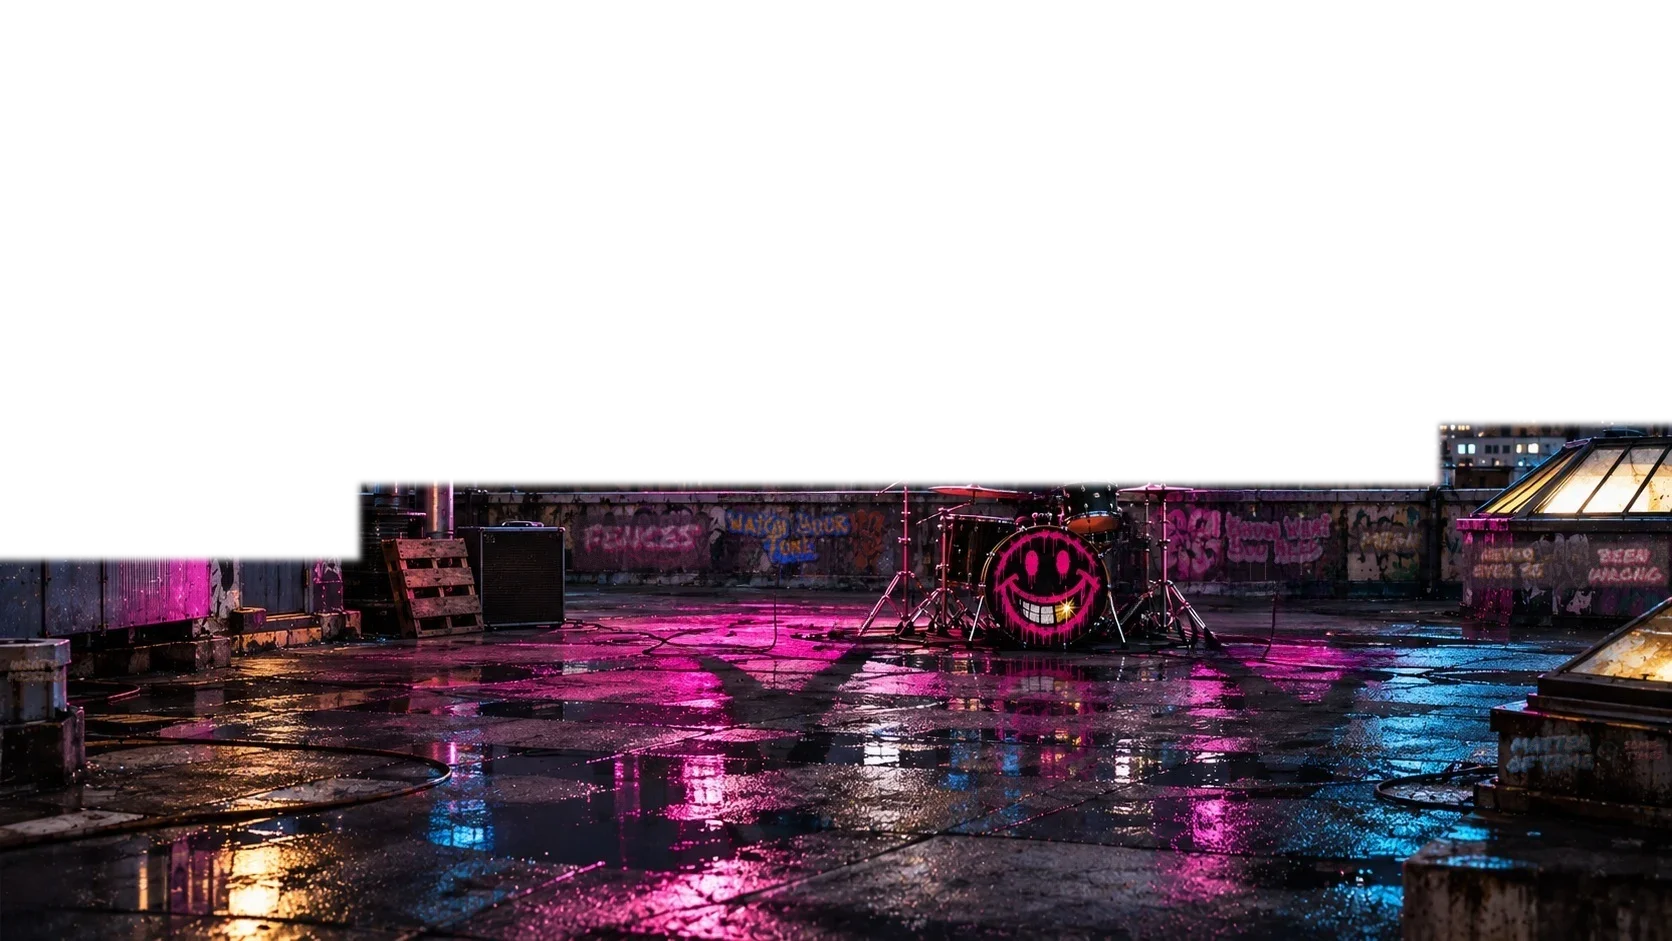
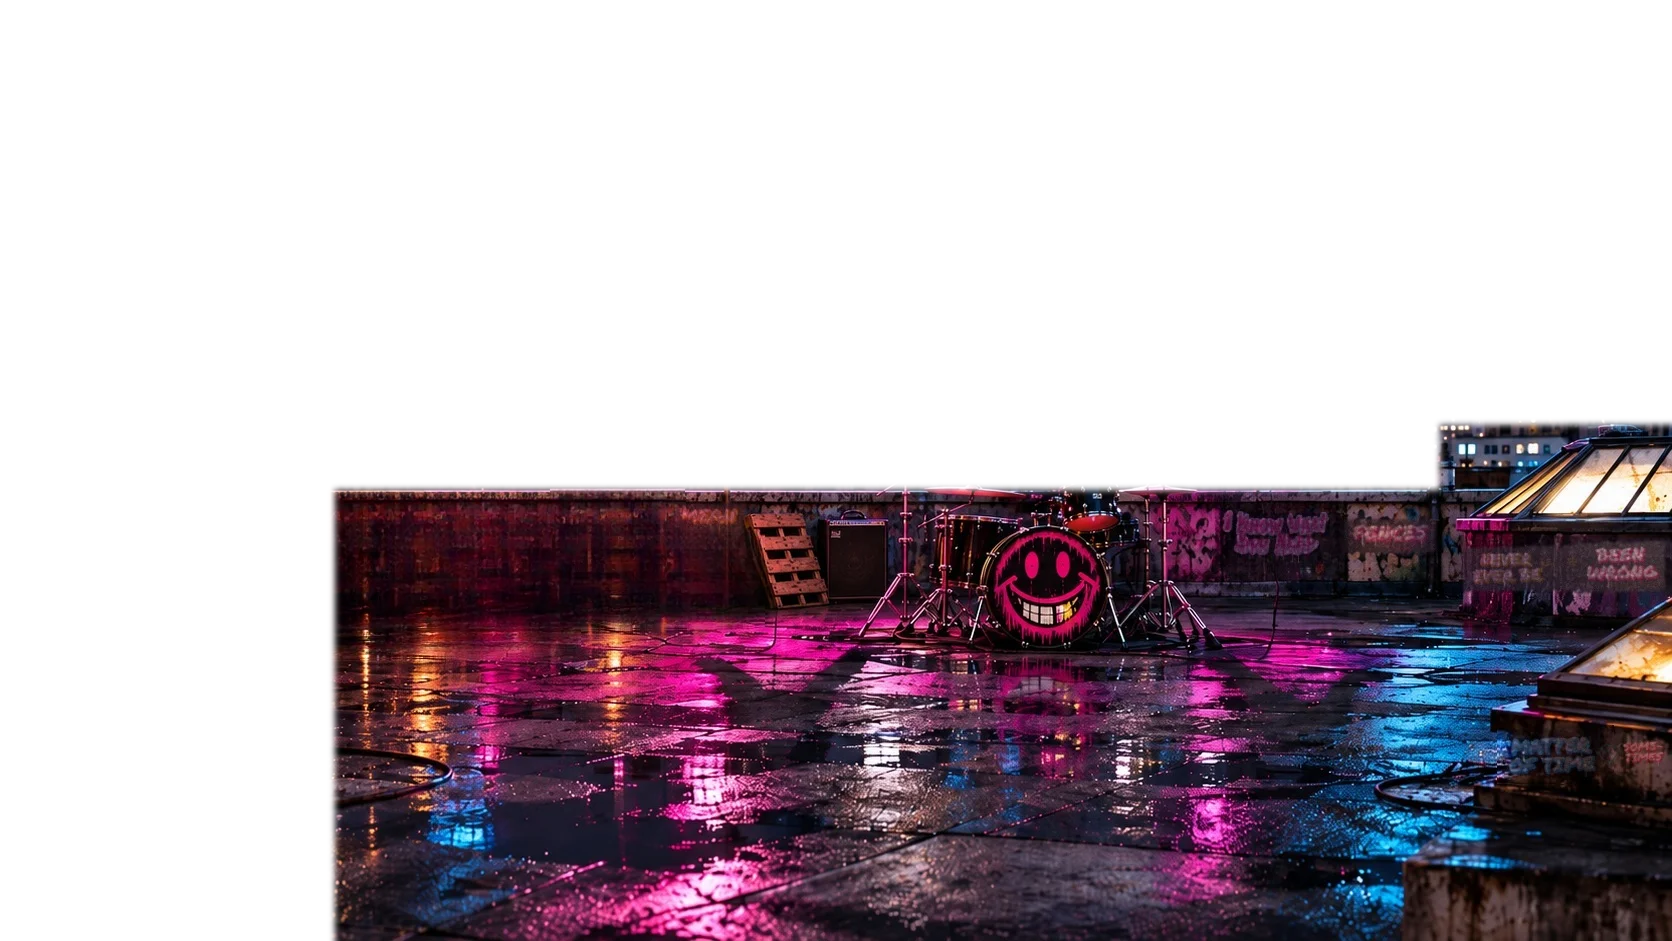
New main shot with the lounge in it: tags + flyer repainted, lounge hotspot, 3-layer move into the lounge
Claude-Session: https://claude.ai/code/session_011gssdMsenVXumrh9a32rRB

Changed region(s): [[0.0, 0.4315, 1.0, 1.0]]

diff --git a/index.html b/index.html
@@ -162,6 +162,7 @@ input{flex:1 1 220px;min-width:0;font:inherit;font-size:16px;padding:12px;backgr
   <header class="top"><div><img src="img/smile-logo-96.webp" alt="" width="30" height="30">Motel Smile</div><span>New York Rock<a class="bs-link" id="bs-link" href="#backstage">Backstage</a></span></header>
 
   <a class="hot" id="flyer" href="#shows" data-open="shows" aria-label="Flyer on the door: next show TBA. Open shows"></a>
+  <a class="hot" id="lounge-hot" href="#lounge" data-lounge aria-label="The lounge: pick a record"></a>
 
   <div class="sky">
     <h1 class="sign" aria-label="Motel Smile"><span class="w"><span class="b f1">M</span><span class="p">o</span><span class="b f2">t</span><span class="p f3">e</span><span class="p">l</span></span> <span class="w"><span class="p">S</span><span class="p">m</span><span class="p">i</span><span class="p f4">l</span><span class="p">e</span></span></h1>
@@ -194,7 +195,7 @@ input{flex:1 1 220px;min-width:0;font:inherit;font-size:16px;padding:12px;backgr
 .lounge.on{opacity:1;pointer-events:auto}
 .lg-fill{position:absolute;inset:-40px;background:url(img/lounge.webp?v=7) 62% 50%/cover;filter:blur(22px) brightness(.45)}
 .lg-cam,.lg-hero{position:absolute;left:0;top:0;width:1672px;height:941px;transform-origin:0 0;will-change:transform,opacity}
-.lg-cam{z-index:7}.lg-hero{z-index:2;background:url(img/rooftop-band.webp) 0 0/1672px 941px;pointer-events:none}
+.lg-cam{z-index:8}.lg-hero{z-index:2;background:url(img/rooftop-plate.webp?v=9) 0 0/1672px 941px;pointer-events:none}
 .lg-cam img{position:absolute;display:block;user-select:none;-webkit-user-drag:none}
 .lg-bg{left:0;top:0;width:1672px;height:941px}
 .lg-front{left:341px;top:489px;width:886px;height:405px;pointer-events:none}
@@ -220,11 +221,11 @@ input{flex:1 1 220px;min-width:0;font:inherit;font-size:16px;padding:12px;backgr
 .lg-panel a{color:var(--cyan);font-size:16px}
 .lg-panel iframe{border:0;border-radius:10px;width:100%;height:80px}
 /* screen UI */
-.lg-ui{position:absolute;inset:0;z-index:8;pointer-events:none}
+.lg-ui{position:absolute;inset:0;z-index:9;pointer-events:none}
 .lg-back{pointer-events:auto;position:absolute;left:max(16px,env(safe-area-inset-left,0px));top:14px}
 .lg-wl{position:absolute;left:0;top:0;width:1672px;height:941px;transform-origin:0 0;background:0 0/1672px 941px no-repeat;opacity:0;pointer-events:none;will-change:transform,opacity}
-#wl-sky{z-index:3;background-image:url(img/lounge-wide-plate.webp?v=8)}#hero-g{z-index:4;background-image:url(img/hero-ground.webp?v=8)}
-#wl-mid{z-index:5;background-image:url(img/lounge-wide-mid.webp?v=8)}#wl-fore{z-index:6;background-image:url(img/lounge-wide-fore.webp?v=8)}
+#wl-sky{z-index:3;background-image:url(img/lounge-wide-plate.webp?v=8)}#hero-g{z-index:4;background-image:url(img/hero-ground.webp?v=9)}#hero-f{z-index:6;background-image:url(img/hero-fore.webp?v=9)}
+#wl-mid{z-index:5;background-image:url(img/lounge-wide-mid.webp?v=8)}#wl-fore{z-index:7;background-image:url(img/lounge-wide-fore.webp?v=8)}
 .lg-cam .lg-lay{position:absolute;left:0;top:0;width:1672px;height:941px;transform-origin:0 0}
 .lg-dig{pointer-events:auto;position:absolute;inset:0;z-index:9;overflow:hidden;background:#05060a;opacity:0;visibility:hidden;transition:opacity .35s,visibility 0s .35s}
 .lg-dig.open{opacity:1;visibility:visible;transition:opacity .35s}
@@ -329,7 +330,7 @@ input{flex:1 1 220px;min-width:0;font:inherit;font-size:16px;padding:12px;backgr
     </div>
   </div>
   <div class="lg-hero" id="lg-hero"></div>
-  <div class="lg-wl" id="wl-sky"></div><div class="lg-wl" id="hero-g"></div><div class="lg-wl" id="wl-mid"></div><div class="lg-wl" id="wl-fore"></div>
+  <div class="lg-wl" id="wl-sky"></div><div class="lg-wl" id="hero-g"></div><div class="lg-wl" id="wl-mid"></div><div class="lg-wl" id="hero-f"></div><div class="lg-wl" id="wl-fore"></div>
   <div class="lg-ui">
     <a class="pill lg-back" style="--c:var(--cyan)" href="#" id="lg-back">← Back to the stage</a>
     <div class="lg-dig" id="dig" data-mode="crate" role="dialog" aria-label="Record crate" aria-hidden="true">
@@ -516,6 +517,7 @@ input{flex:1 1 220px;min-width:0;font:inherit;font-size:16px;padding:12px;backgr
 
   /* ---------- transition: stage -> pull back to the wide lounge -> push in on the record player ---------- */
   const wide=$("wl-sky"), WL=["wl-sky","hero-g","wl-mid","wl-fore"].map(id=>$(id));
+  const HF=$("hero-f");
   const WC={x:913,y:470,w:234}, CC={x:610,y:501,w:520}; // console centre + width in the wide shot / the close-up
   let anim=null;
   function heroBox(){
@@ -547,19 +549,19 @@ input{flex:1 1 220px;min-width:0;font:inherit;font-size:16px;padding:12px;backgr
       const sx=sxA+(sxB-sxA)*e, sy=syA+(syB-syA)*e; return {s,ox:sx-ax*s,oy:sy-ay*s}; };
     const rel=(P,C)=>`translate(${(P.ox-C.ox)/C.s}px,${(P.oy-C.oy)/C.s}px) scale(${P.s/C.s})`;
     // measured: stage -> couch shot
-    const A_SKY={s:.961,tx:-32.8,ty:-49.2}, A_GND={s:1.088,tx:409,ty:-159.4};
+    const A_SKY={s:.961,tx:-32.9,ty:-50.8}, A_GND={s:1.072,tx:423.4,ty:-147.3}, A_FORE={s:2.03,tx:-340,ty:-610};
     // measured: couch shot -> record player shot
     const C_SKY={s:1.107,tx:-82.5,ty:-87.6}, C_MID={s:.924,tx:-17,ty:36.4}, C_FORE={s:2.27,tx:-1465,ty:-567};
     const [wSky,hG,wMid,wFore]=WL, pSky=$("pl-sky"), pMid=$("pl-mid");
     const K1={s:wb.s,ox:wb.ox,oy:wb.oy};
-    const sky0=inv(hb,A_SKY), gnd0=inv(hb,A_GND);
+    const sky0=inv(hb,A_SKY), gnd0=inv(hb,A_GND), fore0=inv(hb,A_FORE), hF=$("hero-f");
     // A: truck left along the back wall from the stage to the couch (1s)
     run(1000,t=>{
-      const e=io(t), S1=lerpPose(sky0,K1,e,800,250), G1=lerpPose(gnd0,K1,e,1100,520);
-      pose(wSky,S1); pose(wMid,G1); pose(wFore,G1); pose(hero,via(S1,A_SKY)); pose(hG,via(G1,A_GND));
-      const x=cl((t-.2)/.45); [wSky,wMid,wFore].forEach(el=>el.style.opacity=String(x)); const hx=1-cl((t-.62)/.25); hG.style.opacity=String(hx); hero.style.opacity=String(hx);
-      blur([hero,hG,wSky,wMid,wFore],Math.sin(Math.PI*x)*2.2);
-    },()=>{ hero.style.display="none"; hG.style.opacity="0"; blur([hero,hG,wSky,wMid,wFore],0); pose(wSky,K1); pose(wMid,K1); pose(wFore,K1);
+      const e=io(t), S1=lerpPose(sky0,K1,e,800,250), G1=lerpPose(gnd0,K1,e,1300,500), F1=lerpPose(fore0,K1,e,913,470);
+      pose(wSky,S1); pose(wMid,G1); pose(wFore,F1); pose(hero,via(S1,A_SKY)); pose(hG,via(G1,A_GND)); pose(hF,via(F1,A_FORE));
+      const x=cl((t-.2)/.45); [wSky,wMid,wFore].forEach(el=>el.style.opacity=String(x)); const hx=1-cl((t-.62)/.25); hG.style.opacity=String(hx); hF.style.opacity=String(hx); hero.style.opacity=String(hx);
+      blur([hero,hG,hF,wSky,wMid,wFore],Math.sin(Math.PI*x)*2.2);
+    },()=>{ hero.style.display="none"; hG.style.opacity="0"; hF.style.opacity="0"; blur([hero,hG,hF,wSky,wMid,wFore],0); pose(wSky,K1); pose(wMid,K1); pose(wFore,K1);
       // B: a beat on the lounge, then C: walk up to the record player (1.1s)
       setTimeout(()=>{
         const M1={s:S,ox:OX,oy:OY}, eSky=via(M1,C_SKY), eMid=via(M1,C_MID), eFore=via(M1,C_FORE);
@@ -948,7 +950,7 @@ input{flex:1 1 220px;min-width:0;font:inherit;font-size:16px;padding:12px;backgr
   const ext=u=>`href="${esc(u)}" target="_blank" rel="noopener"`;
   const PLAT={spotify:"Spotify",apple:"Apple Music",youtube:"YouTube",bandcamp:"Bandcamp"};
   // flyer hotspot: follows the flyer painted on the door, whatever the crop
-  const IMG={w:1672,h:941}, FLY={x:255,y:463,w:45,h:66};
+  const IMG={w:1672,h:941}, FLY={x:252,y:467,w:41,h:61}, LNG={x:556,y:462,w:202,h:160};
   const stage=$("stage"), fly=$("flyer");
   const phone=()=>matchMedia("(max-width:760px)").matches;
   const still=matchMedia("(prefers-reduced-motion:reduce)").matches;
@@ -960,6 +962,8 @@ input{flex:1 1 220px;min-width:0;font:inherit;font-size:16px;padding:12px;backgr
     const L=ox+FLY.x*s, T=oy+FLY.y*s;
     Object.assign(fly.style,{left:L+"px",top:T+"px",width:FLY.w*s+"px",height:FLY.h*s+"px"});
     fly.style.visibility=(L+FLY.w*s<0||L>W)?"hidden":"visible";
+    const lh=$("lounge-hot"), L2=ox+LNG.x*s, T2=oy+LNG.y*s;
+    Object.assign(lh.style,{left:L2+"px",top:T2+"px",width:LNG.w*s+"px",height:LNG.h*s+"px"}); lh.style.visibility=(L2+LNG.w*s<0||L2>W)?"hidden":"visible";
   }
   // phones: the wide shot slowly pans door -> drum kit and back, so the flyer and the kit both get seen
   let t0=performance.now();
@@ -984,7 +988,7 @@ input{flex:1 1 220px;min-width:0;font:inherit;font-size:16px;padding:12px;backgr
   let signupBound=false;
   function render(c){
     const hints=c.site&&c.site.showSetupHints;
-    $("stage").style.backgroundImage=`url("${(c.images&&c.images.hero)||"img/rooftop-band.webp"}")`;
+    $("stage").style.backgroundImage=`url("${(c.images&&c.images.hero)||"img/rooftop-lounge.webp?v=9"}")`;
     const m=c.music,f=m.featured;
     const sub=[f.status,f.length].filter(Boolean).join(" · ");
     $("t-listen").textContent=f.title+" ▸"; $("t-listen-sub").textContent=sub;
